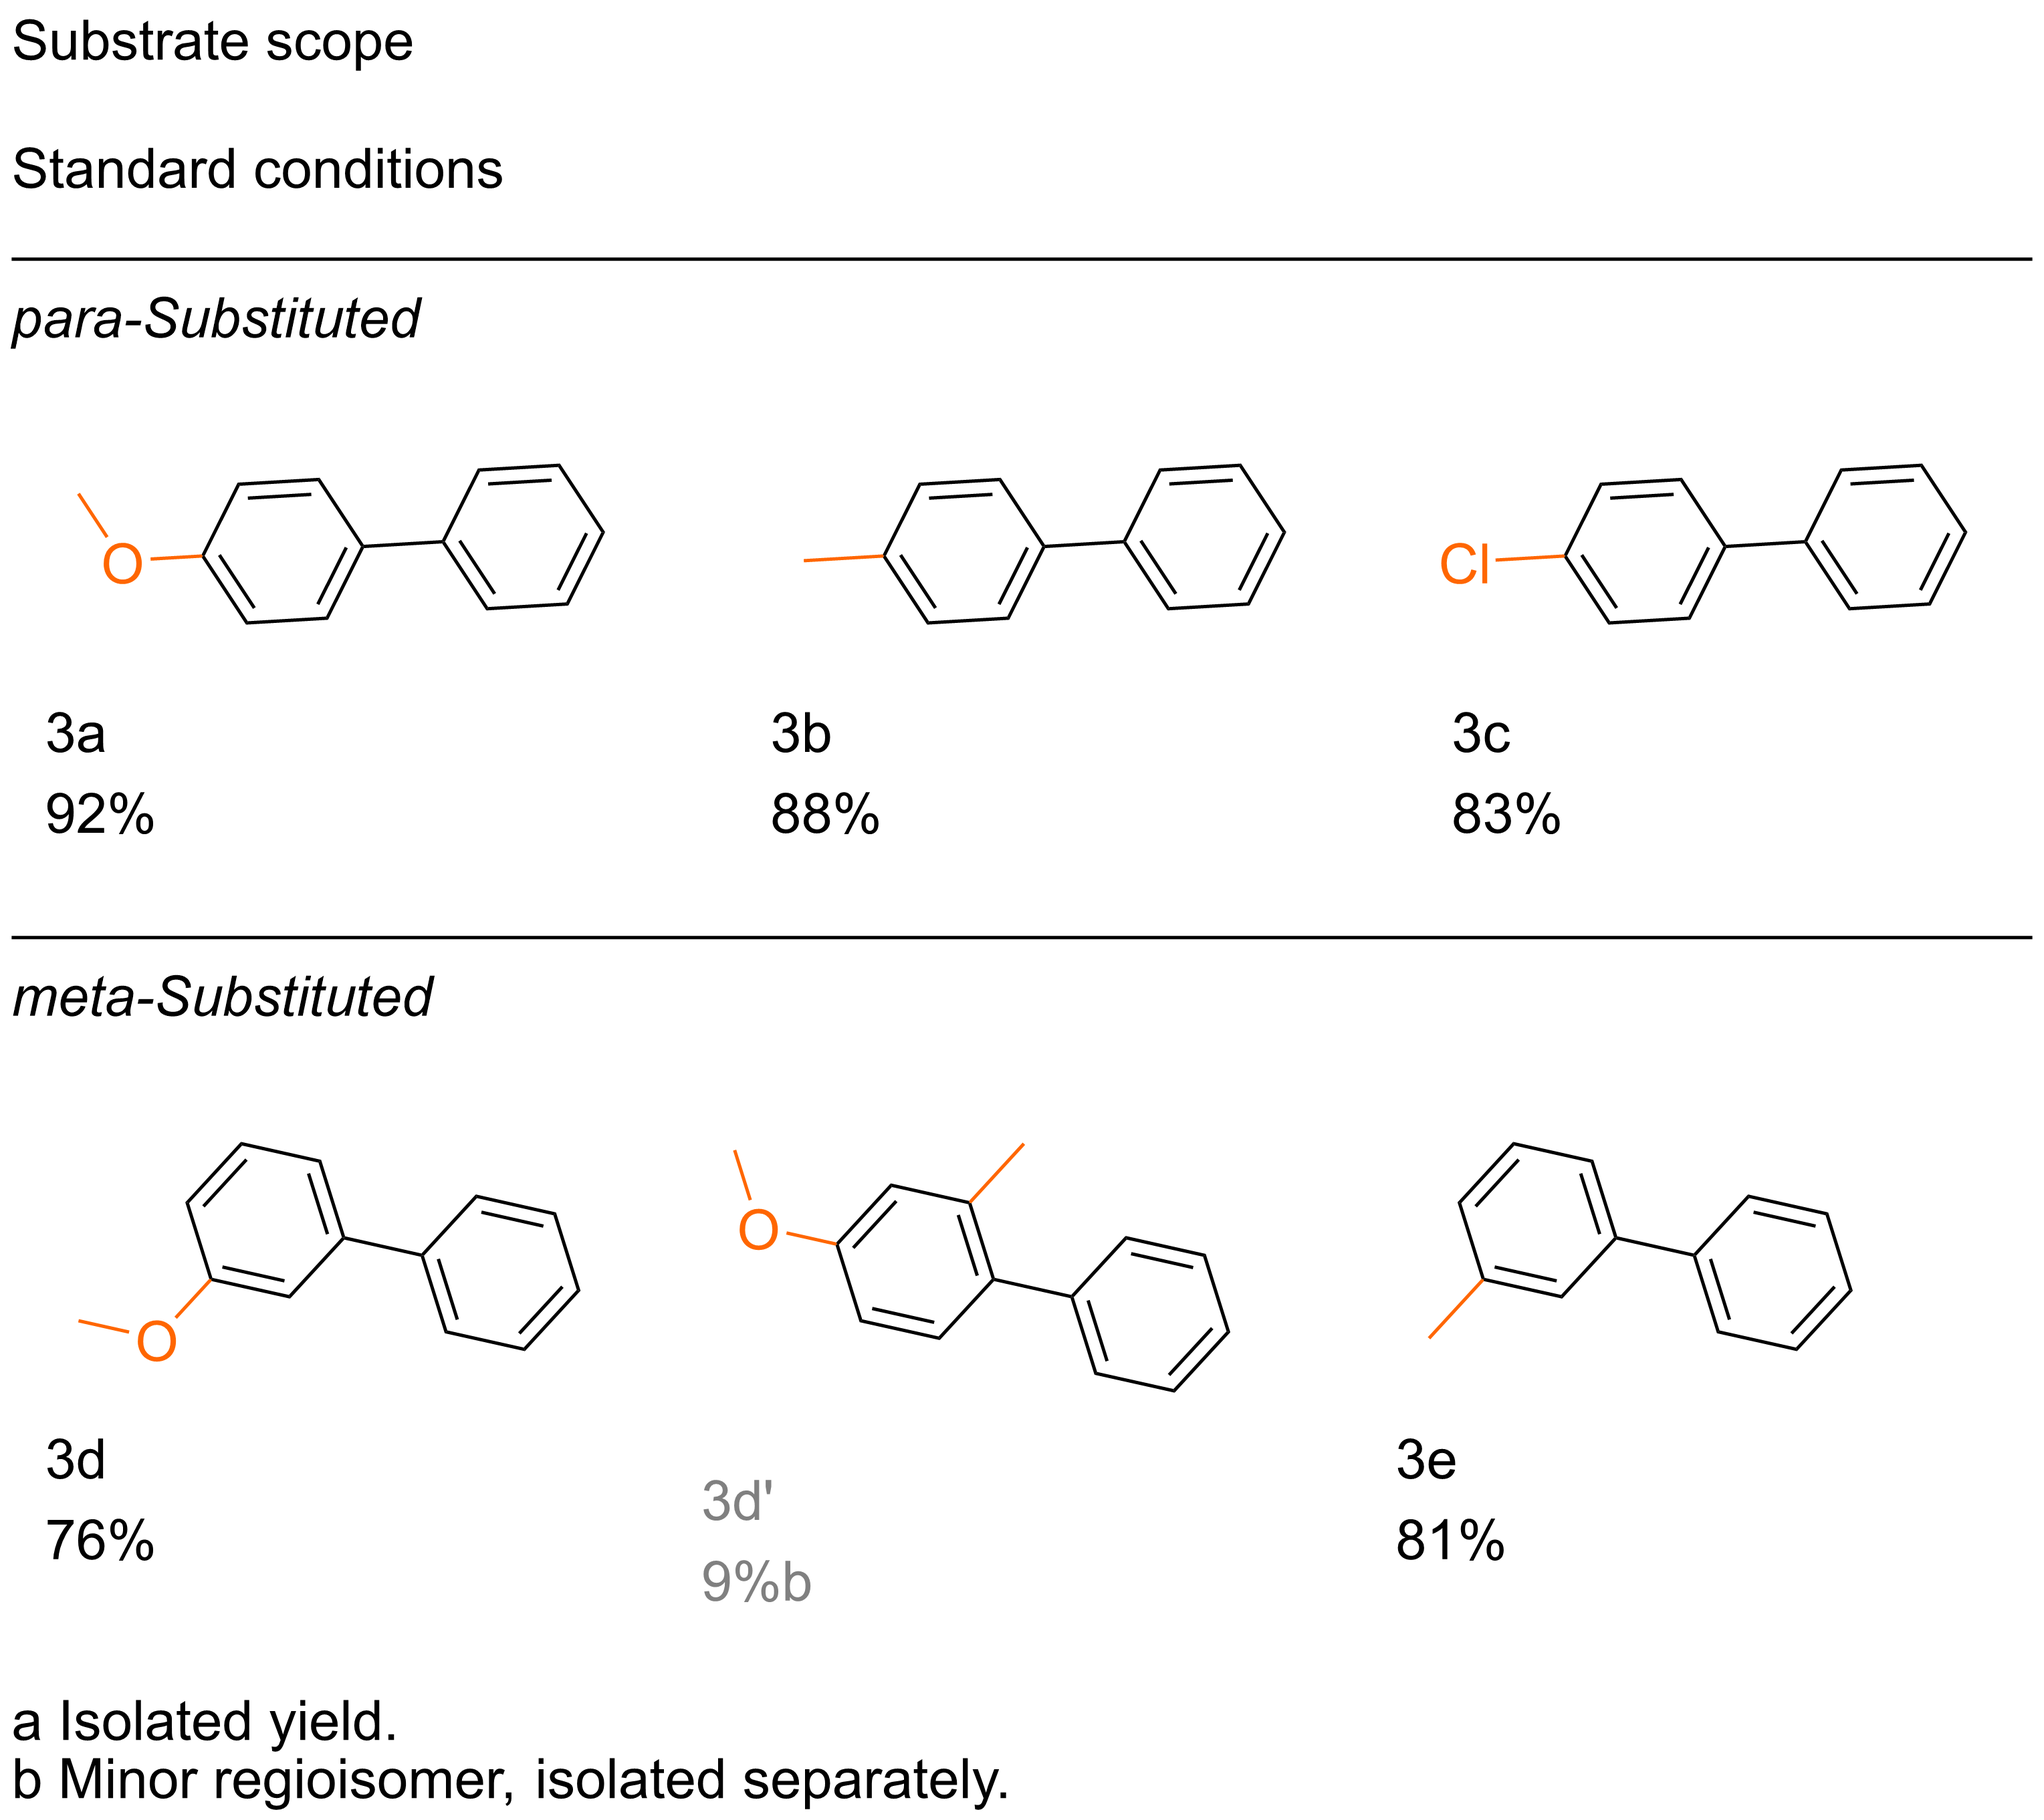
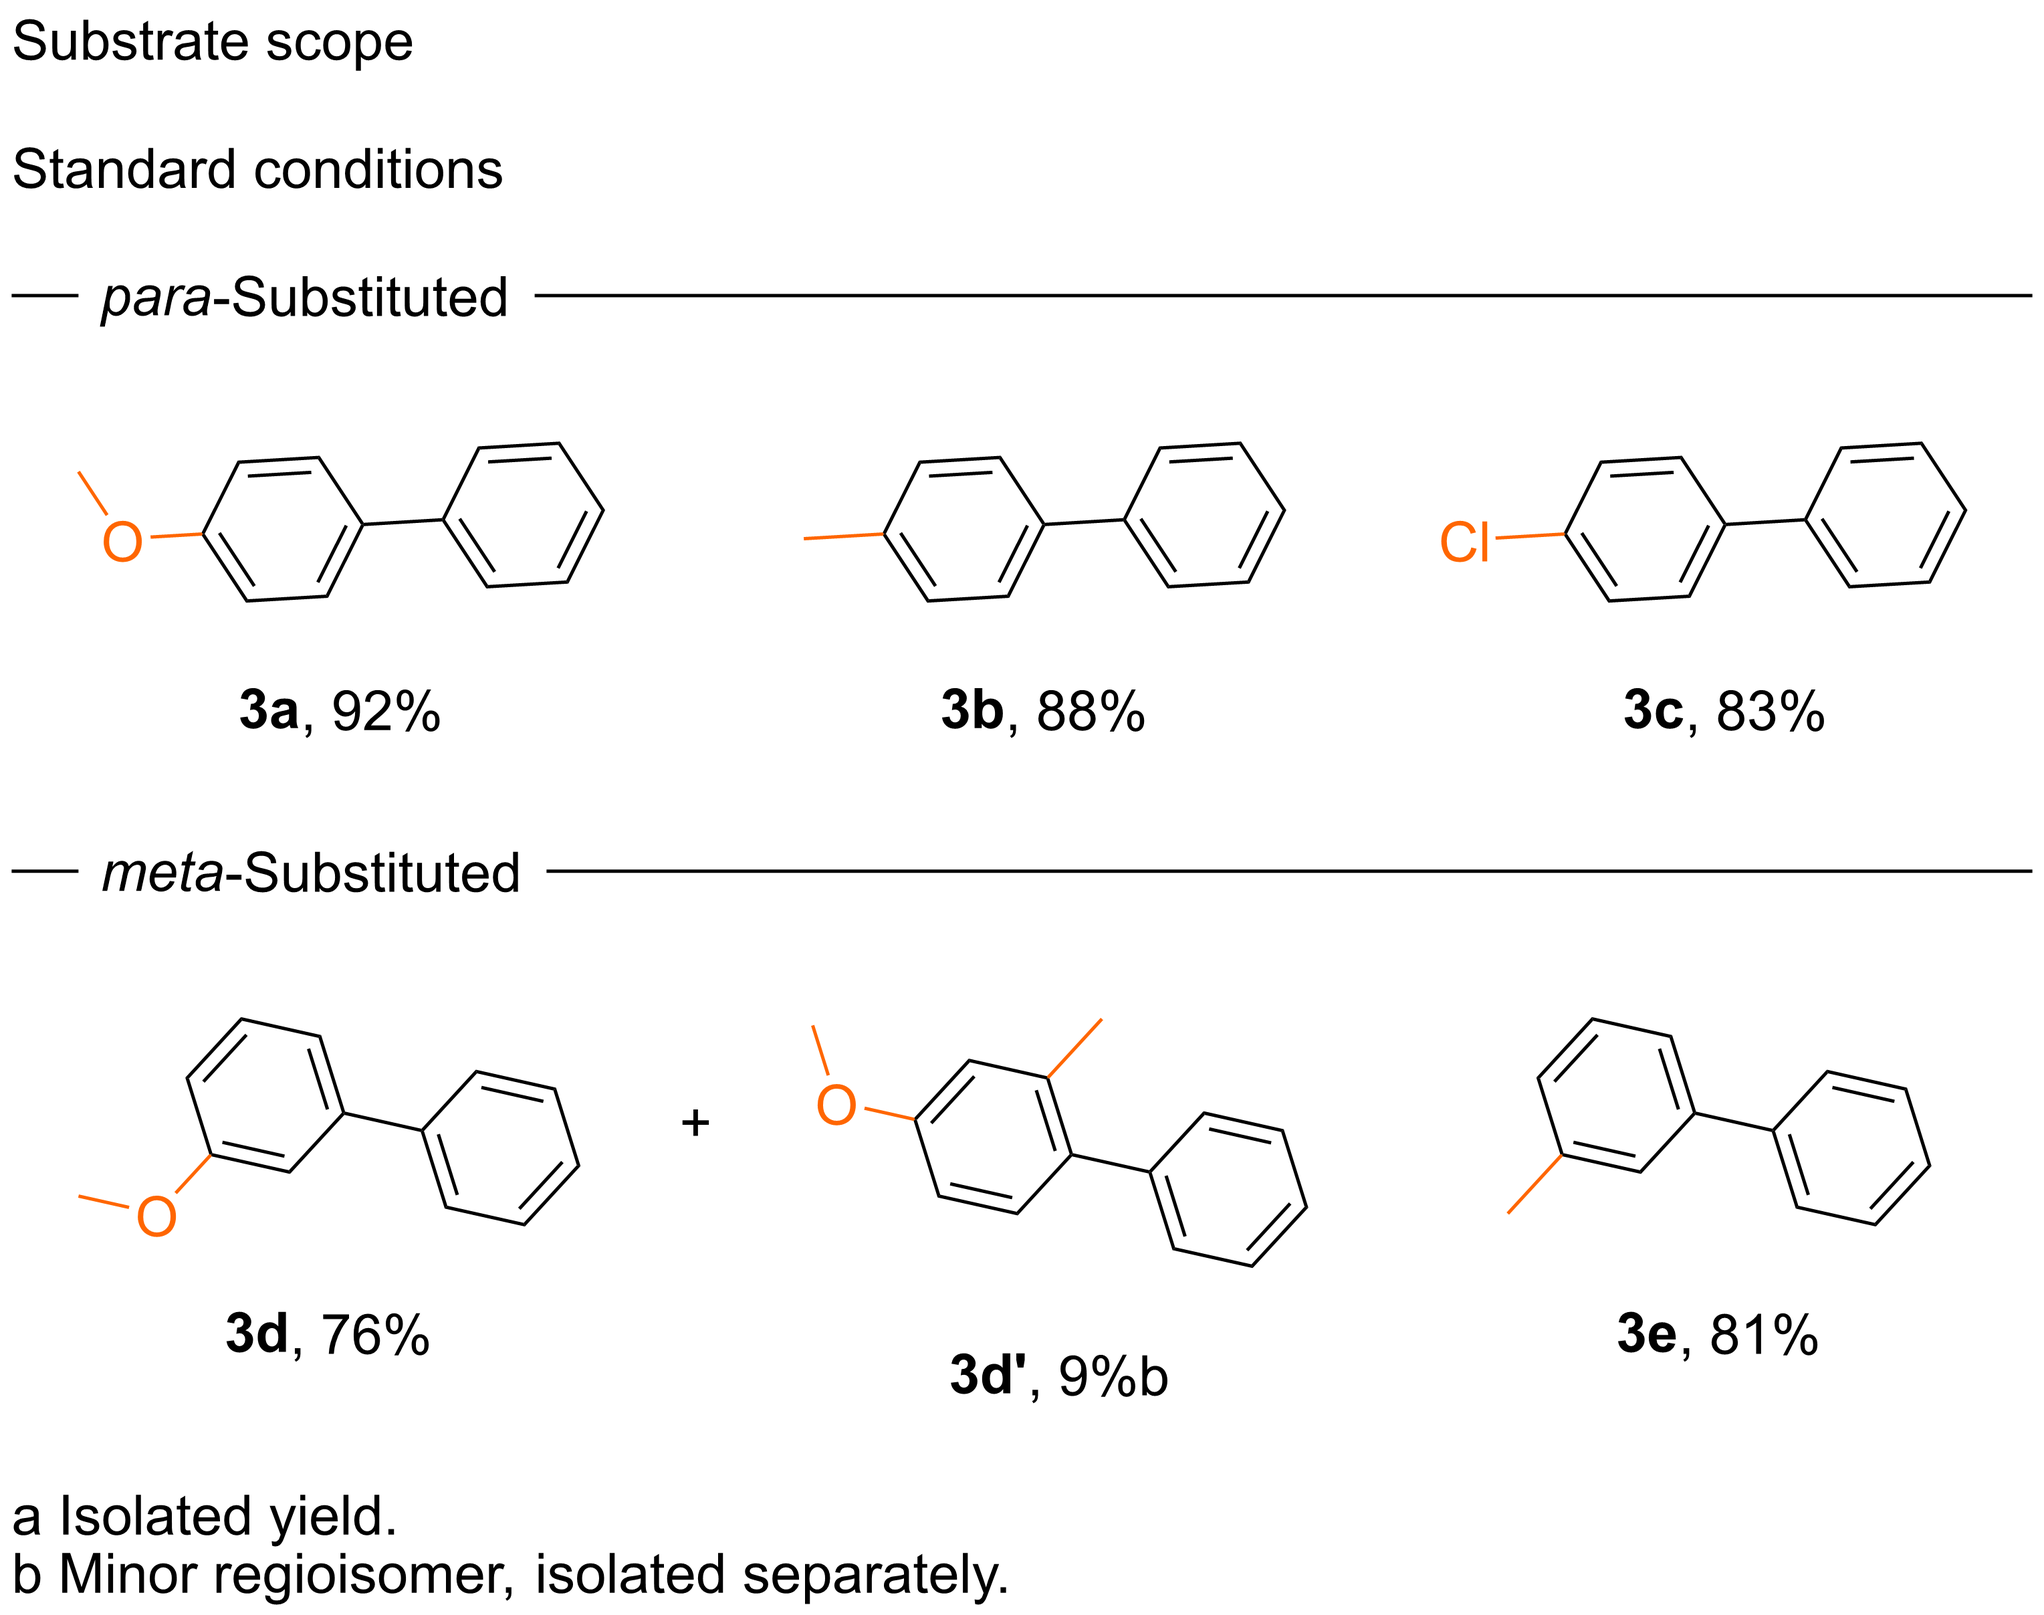
test(data): close the dashed sample, which was open like the bug it documented
CurveType=2 is the dashed flag alone; ChemDraw draws no segment back to the first anchor, so
native-dashed-overlay.cdxml left a 27.56 pt gap and its own PNG showed it. The reference for P9
carried the defect P9 was fixing. Replaced with CurveType=3 + Closed=yes and the first anchor
repeated, written by ChemDraw's exporter and verified in the render.

Also refreshes the four parity renders and rewrites the P3 and P9 paragraphs, which still
described defects that are now fixed, with the measurements taken after them.

One finding stands: a generic-ring arc runs through its molecule (closest sample point 0.00 pt
from a bond, 13 within 10 pt), and the compound label sits inside the arc — reported as
'Overlay: label sits on the overlay'.

diff --git a/docs/journal-figure-parity.md b/docs/journal-figure-parity.md
@@ -353,10 +353,7 @@ No known defect.
 Two butane conformers (anti, gauche) joined by a reversible arrow, and the hydrate mechanism
 from the preview set below them.
 
-**Known defect:** in the gauche conformation the rear substituents are not rotated relative to
-the front ones, so three label pairs land on identical coordinates — `(297.21, 160.23)` H/CH3,
-`(279.75, 129.99)` CH3/H, and `(262.29, 160.23)` H/H drawn twice — and the PNG shows a
-collided glyph. The anti conformation is clean.
+**Fixed.** The collision came from the brief, not the code: `dihedral_offset` is the rear set angle relative to the front one, and the brief asked for 120 — a multiple of 120, so the rear spokes landed on the front ones. Angles within 10 degrees of a multiple of 120 are now rejected with an explanation, the brief carries two staggered conformations, and the render shows thirteen labels with no shared coordinate (measured after the fix).
 
 ## `p9-cycle-overlay.json`
 
@@ -369,14 +366,16 @@ because `CurveType` 2 is the dashed flag alone and ChemDraw draws no segment bac
 Overlays are now written with `CurveType="3"` (closed and dashed), `Closed="yes"`, and the first
 anchor repeated at the end.
 
-**Two known defects:**
+**Both defects are fixed, and the sample itself was wrong.** The circles in
+`toolkit/tests/data/native-dashed-overlay.cdxml` were open — first and last anchor 27.56 pt
+apart, `CurveType="2"`, no `Closed` — so the reference this task was built on carried the very
+bug being fixed. It has been replaced with a closed pair (`CurveType="3"`, `Closed="yes"`, the
+first anchor repeated), verified in the render. After the fix: four circles closed, every arrow
+at least 9.0 pt outside every circle, `Overlay:` warnings 0 and `overlay_collides` 0.
 
-- the arrow `(296,171) -> (349,263)` passes 24.0 pt from a circle centre, inside its radius
-  of 37.16, so it cuts through the dashed overlay;
-- the step label `reductive elimination` overlaps the top-left circle.
-
-Neither is caught by a check yet; `arrows_collide` covers arrow against arrow and bond, not
-arrow or label against an overlay.
+A separate finding stands: a generic-ring arc of `p9-generic-ring.json` runs **through** the
+molecule — the closest sample point sits 0.00 pt from a bond, 13 points within 10 pt of one —
+and the compound label sits inside the arc, which the checker does report (`Overlay:`).
 
 ## Where each gap stands
 
